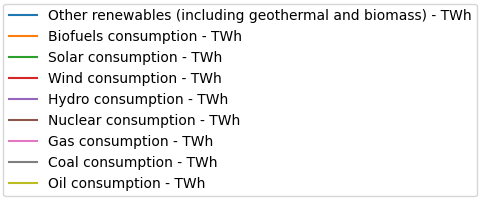
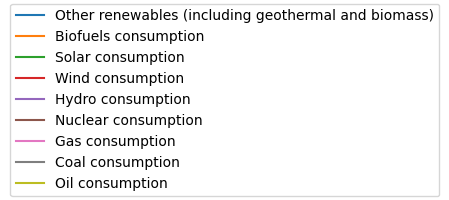
Some minor edits done to the legends for prod and con

diff --git a/flask_app/renewables.py b/flask_app/renewables.py
@@ -1,14 +1,19 @@
 import pandas as pd
 import numpy as np
 import matplotlib.pyplot as plt
+import regex as re
 
-dataset = pd.read_csv('flask_app/energyCon.csv')
-energy_doc = (dataset[dataset['Entity'].str.match(fr'sweden', case=False)])
-energy_doc = energy_doc.drop(['Code', 'Entity', 'Year'], axis=1).dropna(axis=1, how='all')
+dataset = pd.read_csv('flask_app/clumped_data.csv')
+energy_doc = (dataset[dataset['Country'].str.match(fr'sweden', case=False)])
+energy_doc = energy_doc.drop(['Code (alpha-3)', 'Country', 'Renewable energy production (%)'], axis=1).dropna(axis=1, how='all')
+new_cols = []
+for item in energy_doc.columns:
+    new_cols.append(item.replace('(GWh)', ''))
+energy_doc.columns = new_cols
 labels = energy_doc.columns.tolist()
 values = energy_doc.to_numpy().flatten()
 
-fig = plt.figure(figsize=(4.8,2))
+fig = plt.figure(figsize=(3,2.2))
 plt.rc('axes.spines', **{'bottom':False, 'left':False, 'right':False, 'top':False})
 ax = fig.add_subplot(111)
 wedges = [] 
@@ -17,7 +22,5 @@ for i in range(len(values)):
 legend = fig.legend(labels, loc='center')
 ax.get_xaxis().set_visible(False)
 ax.get_yaxis().set_visible(False)
-figLegend = plt.figure()
-figLegend.legend(wedges, labels)
 plt.show()
-fig.savefig('ConLegend.png')
+fig.savefig('ProdLegend.png')

diff --git a/flask_app/query_data.py b/flask_app/query_data.py
@@ -63,5 +63,4 @@ def get_con(country):
     return content
 
 if __name__ == "__main__":
-    #print(get_plot('Sweden'))
     app.run()
